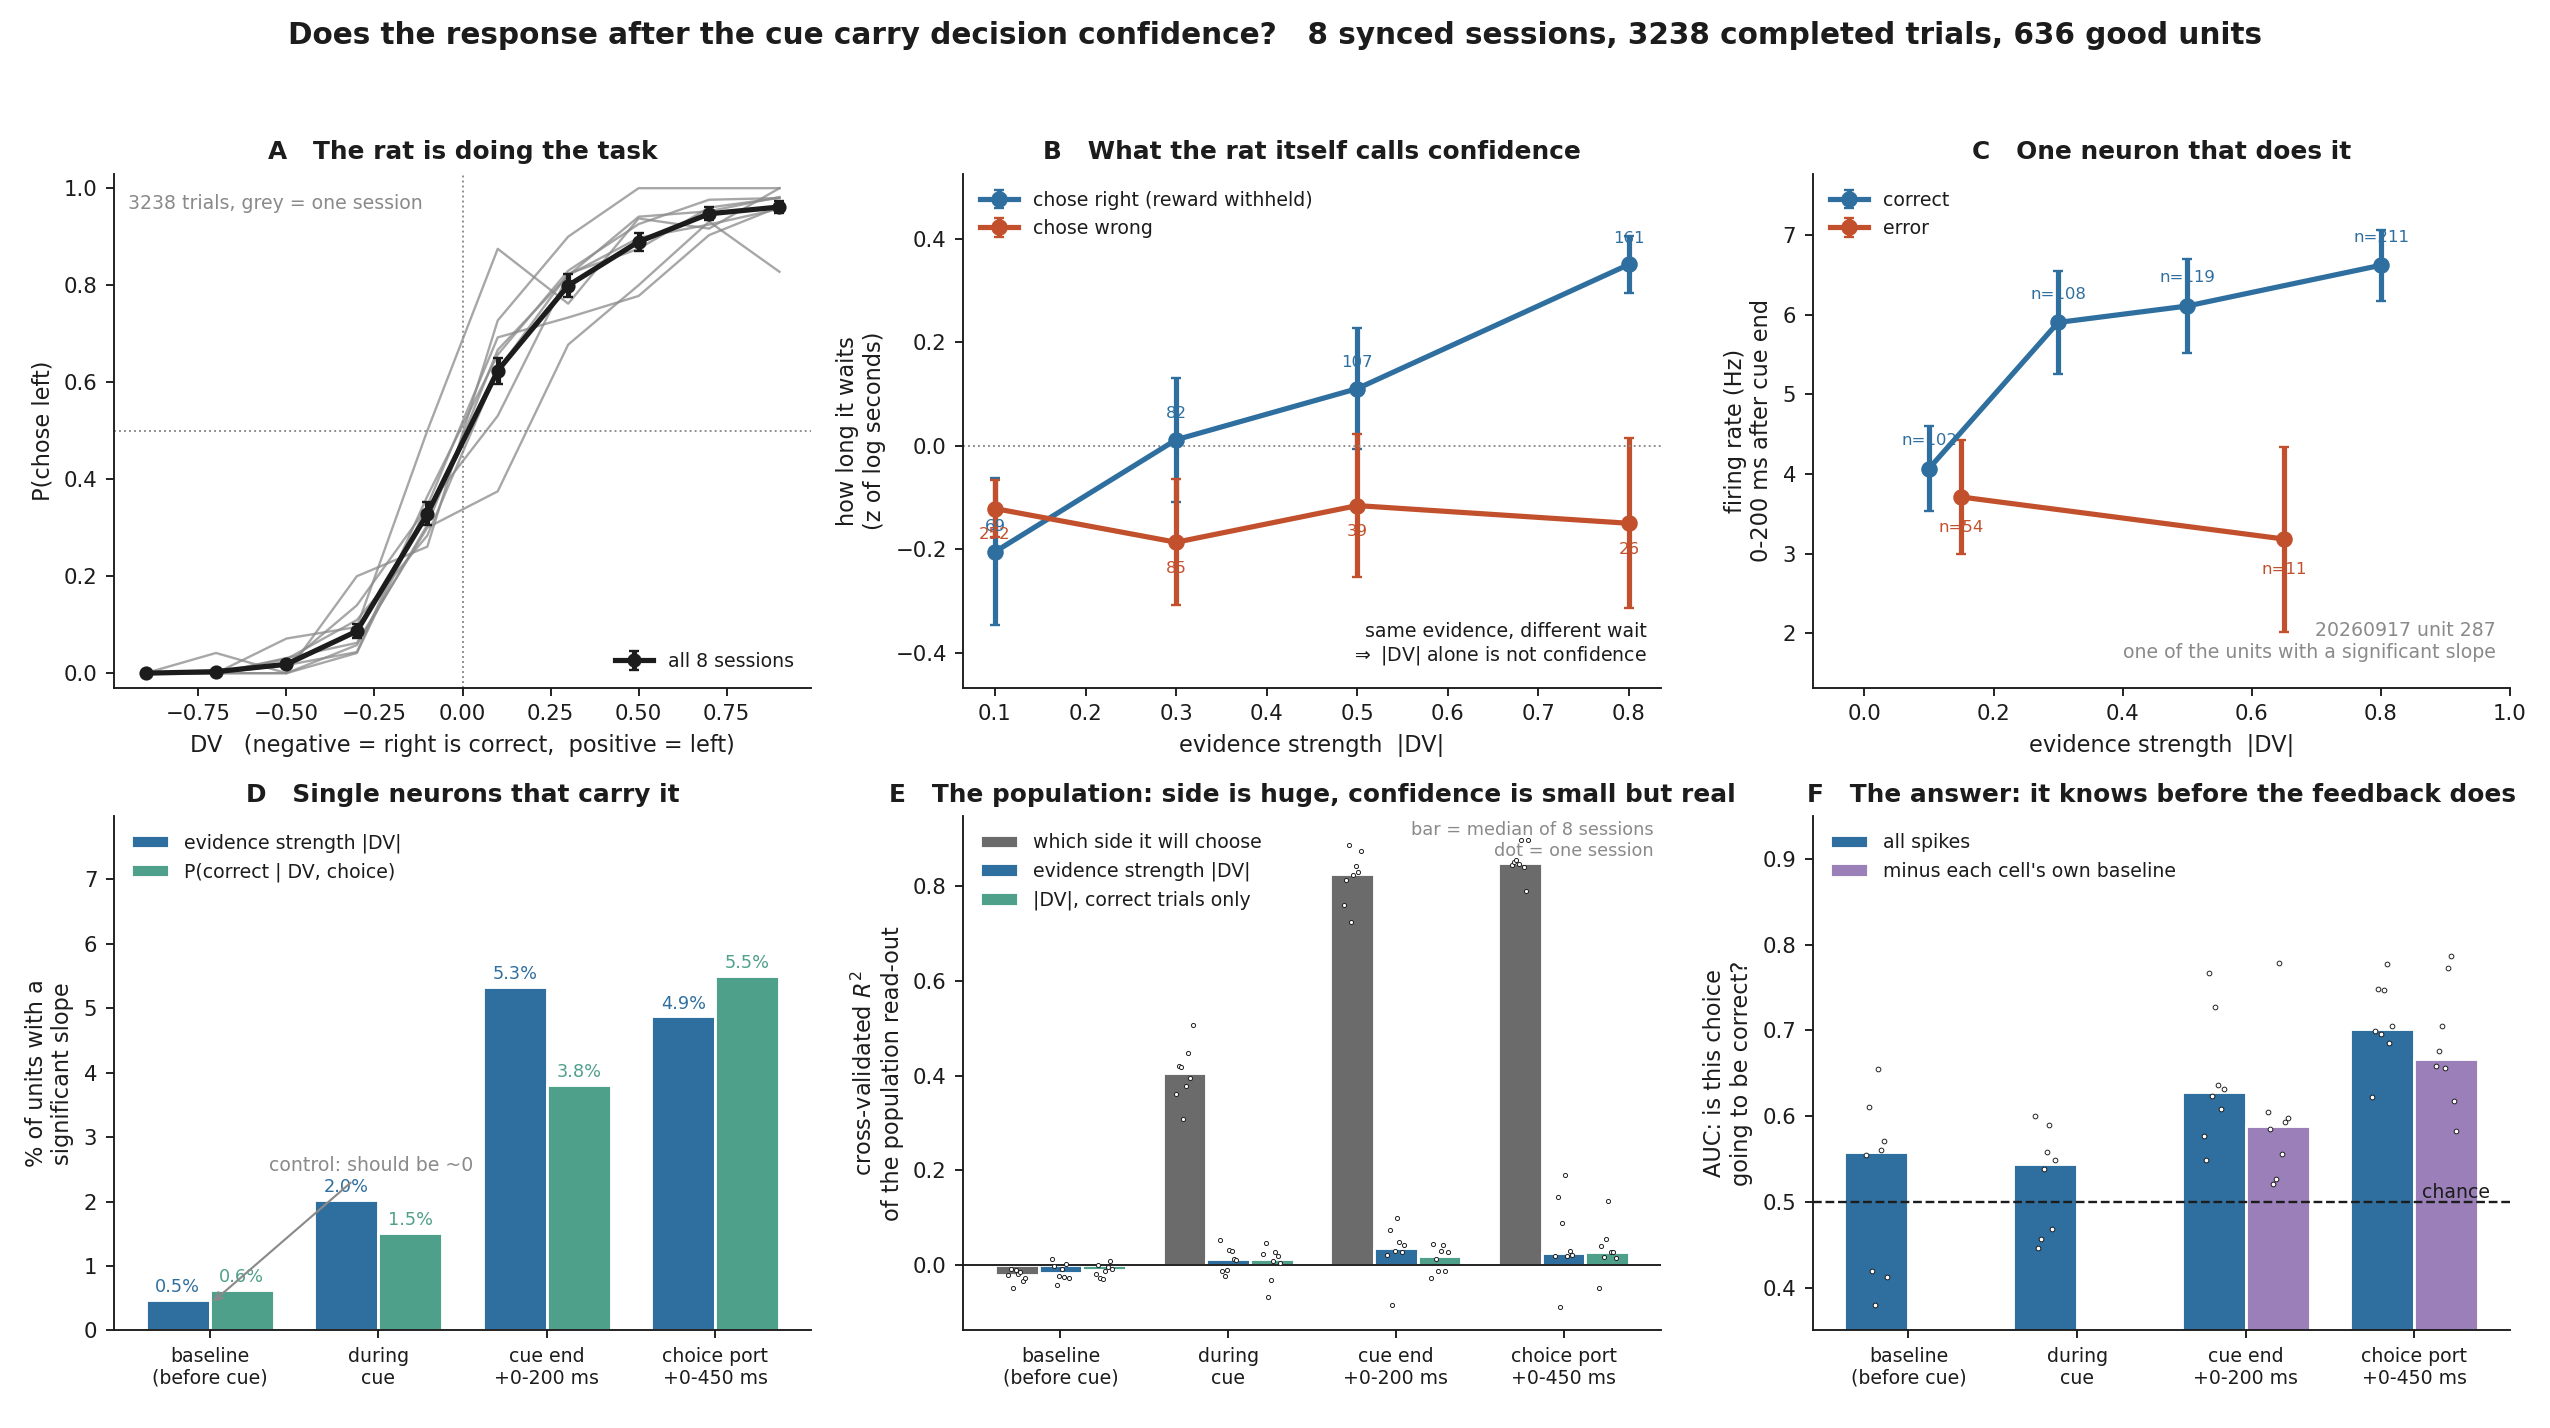
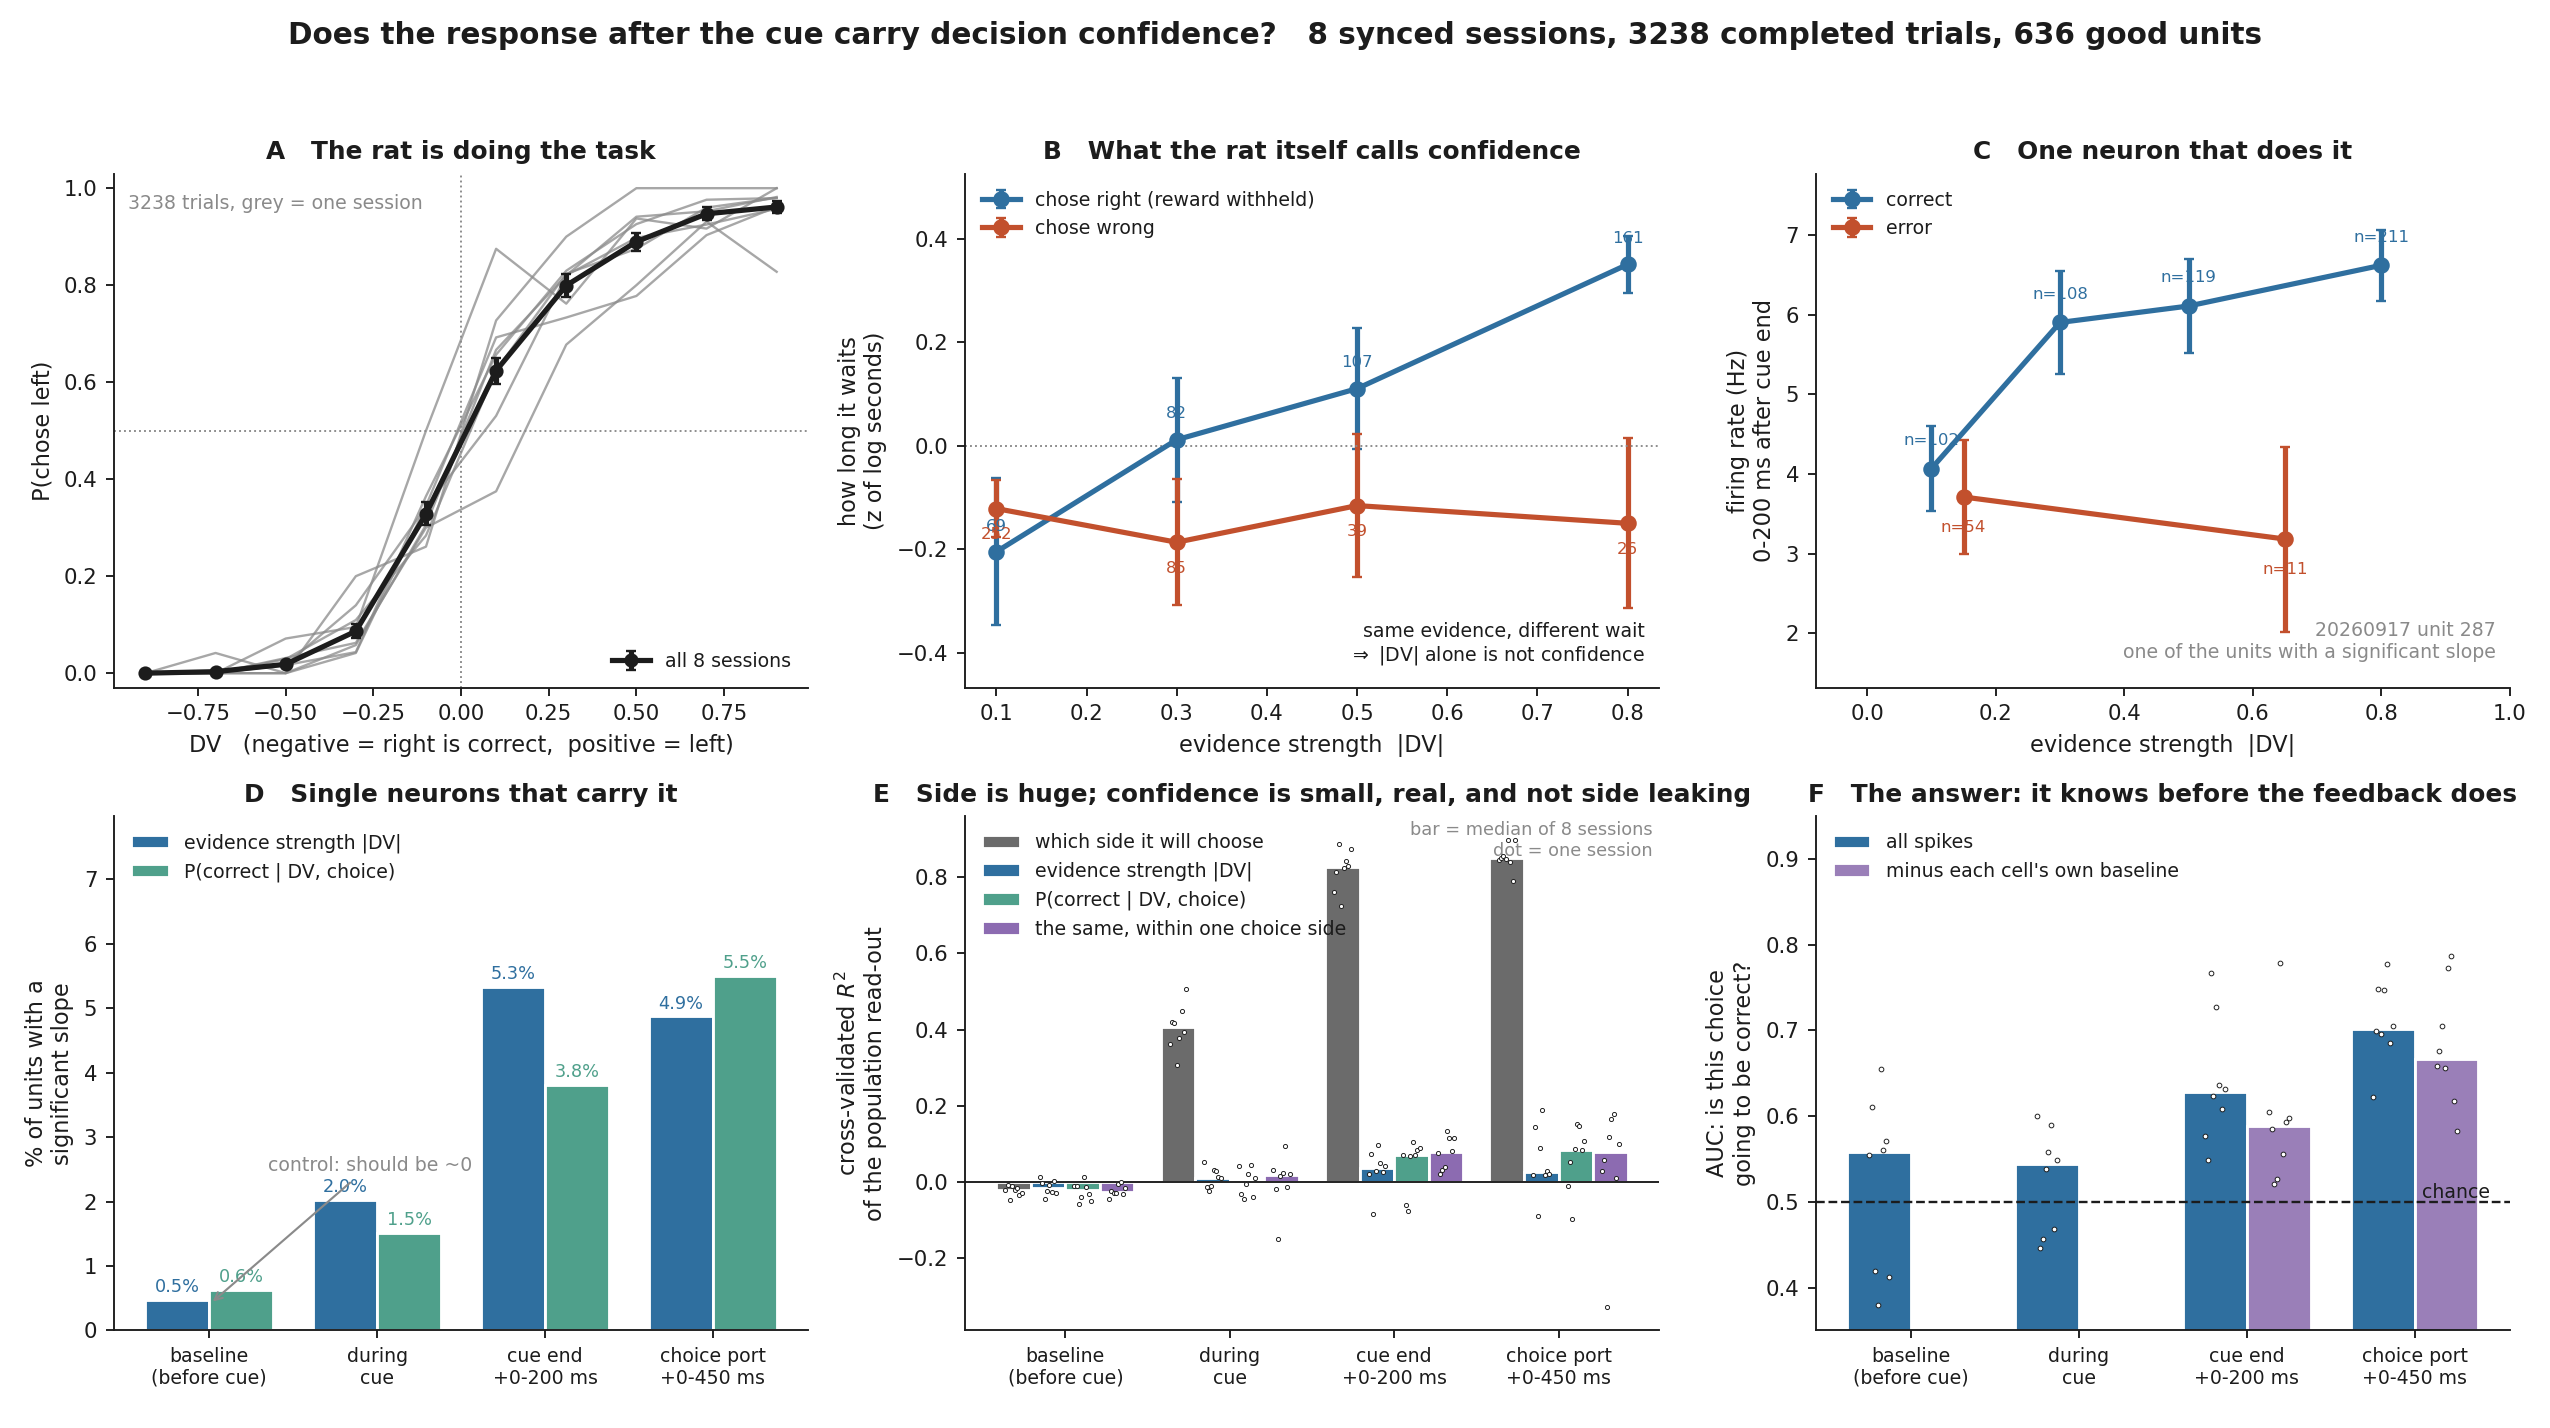
Hold the choice fixed, and ask panel E again
Gil, looking at the figure: how can you tell in panel E what codes the side
choice and what codes the confidence? The honest answer was that it couldn't.
Those bars are separate ridge decoders fitted independently on the same
population vector, one per target. They don't partition variance and they don't
sum to anything, so a small confidence read-out sitting beside a side read-out
at R2 0.85 from the same cells is precisely the shape a leak would take, and
the panel carried no control against it.

The design does give something: |DV| and conf_norm are unsigned, so a left
choice at DV +0.8 and a right choice at -0.8 are identical on both and a pure
side signal has nothing to predict with. Measured rather than asserted, over
the eight sessions, mean |r| between ChoiceLeft and |DV| is 0.045 -- orthogonal,
as the task intends -- and between ChoiceLeft and conf_norm 0.103, since side
bias makes P(correct) slightly side-dependent. One percent shared variance
bounds the leak at about 0.009 of apparent confidence R2 against an observed
0.08 to 0.11. A bound, still not a measurement.

The measurement is to decode confidence within one choice side at a time:
inside left-choice trials every trial went left, so there is no side variance
left to exploit. conf_norm_left_only and conf_norm_right_only now run in the
check, and panel E has a fourth bar for the per-session mean of the two.

It survives. At cue end 12 of 16 side-specific fits clear both nulls and 8 of 8
[…]

diff --git a/scripts/confidence_coding_figure.py b/scripts/confidence_coding_figure.py
@@ -67,6 +67,7 @@ C_ERROR = "#c2502d"        # wrong
 C_SIDE = "#6b6b6b"
 C_DV = "#2f6f9f"
 C_DVC = "#4fa08b"
+C_WITHIN = "#8c6bb1"      # confidence with the choice held fixed
 EPOCH_LABEL = {"base": "baseline\n(before cue)", "stim": "during\ncue",
                "cue": "cue end\n+0-200 ms", "chin": "choice port\n+0-450 ms",
                "wait": "waiting\n+0.5-1.5 s"}
@@ -240,16 +241,31 @@ def panel_d(ax, units):
 
 def panel_e(ax, dec):
     eps = ["base", "stim", "cue", "chin"]
+    # The fourth bar is the control the first three cannot supply: side is read out
+    # at R^2 ~ 0.85 and confidence at ~0.09 from the SAME cells by independently
+    # fitted decoders, so the question is whether the small one is the big one
+    # leaking. Holding the choice fixed settles it -- within left-choice trials
+    # there is no side variance left for a side signal to exploit.
     targets = [("side", C_SIDE, "which side it will choose"),
                ("absDV", C_DV, "evidence strength |DV|"),
-               ("absDV_correct_only", C_DVC, "|DV|, correct trials only")]
+               ("conf_norm", C_DVC, "P(correct | DV, choice)"),
+               ("conf_norm_within_side", C_WITHIN,
+                "the same, within one choice side")]
     xs = np.arange(len(eps))
-    w = 0.26
+    w = 0.21
     for i, (tg, col, lab) in enumerate(targets):
-        off = (i - 1) * w
+        off = (i - 1.5) * w
         med, pts = [], []
         for ep in eps:
-            v = dec[(dec.epoch == ep) & (dec.target == tg)].r2.values
+            if tg == "conf_norm_within_side":
+                # one value per session: the mean of its left-only and right-only
+                # read-outs, so a session counts once however its trials split
+                e = dec[(dec.epoch == ep)
+                        & dec.target.isin(["conf_norm_left_only",
+                                           "conf_norm_right_only"])]
+                v = e.groupby("session").r2.mean().values
+            else:
+                v = dec[(dec.epoch == ep) & (dec.target == tg)].r2.values
             med.append(np.median(v) if len(v) else np.nan)
             pts.append(v)
         ax.bar(xs + off, med, w, color=col, label=lab, edgecolor="white", linewidth=1.2)
@@ -261,7 +277,7 @@ def panel_e(ax, dec):
     ax.set_xticks(xs)
     ax.set_xticklabels([EPOCH_LABEL[e] for e in eps], fontsize=8)
     ax.set_ylabel("cross-validated $R^2$\nof the population read-out")
-    ax.set_title("E   The population: side is huge, confidence is small but real")
+    ax.set_title("E   Side is huge; confidence is small, real, and not side leaking")
     ax.legend(frameon=False, fontsize=8, loc="upper left")
     ax.text(0.99, 0.99, "bar = median of %d sessions\ndot = one session"
             % dec.session.nunique(),

diff --git a/scripts/confidence_coding_quick_check.py b/scripts/confidence_coding_quick_check.py
@@ -497,6 +497,19 @@ def analyse_session(sid, S, verbose=True):
         if corr.sum() >= MIN_TRIALS:
             dc = decode_epoch(R[corr], {"absDV_correct_only": t.absDV.values[vt][corr]})
             d.update(dc)
+        # Confidence read out WITHIN one choice side at a time. The side read-out in
+        # panel E is enormous (R^2 ~ 0.85) and the confidence one is small, and the
+        # two decoders are fitted independently on the same cells -- so the obvious
+        # worry is that the small one is the big one leaking. |DV| and conf_norm are
+        # unsigned and so side-independent by construction, but that is an argument,
+        # not a measurement. Holding the choice fixed is the measurement: within
+        # left-choice trials every trial has the same side, so nothing a side signal
+        # does can produce a confidence read-out here.
+        for lab, sel in (("left", t.ChoiceLeft.values[vt] > 0.5),
+                         ("right", t.ChoiceLeft.values[vt] < 0.5)):
+            if sel.sum() >= MIN_TRIALS:
+                d.update(decode_epoch(R[sel], {
+                    "conf_norm_%s_only" % lab: t.conf_norm.values[vt][sel]}))
         # The animal's own confidence report. Guarded: a window that runs past the
         # moment the rat gave up and left the port would be reading the withdrawal,
         # not the confidence that set it, and short waits are exactly the

diff --git a/post_ks_correction/RESEARCH_LOG.md b/post_ks_correction/RESEARCH_LOG.md
@@ -11327,3 +11327,60 @@ but the panel is weaker evidence in the three-session figure than in the eight.
 
 Figures: `outputs/confidence_coding_shamir_all/confidence_figure_shamir_all.png`
 and `outputs/confidence_coding_shamir_500/confidence_figure_shamir_500.png`.
+
+### 5bd.91 Is panel E's confidence just side leaking? Hold the choice fixed (2026-11-20)
+
+Gil, on the figure of 5bd.90: *"how can you tell in panel E what code the side
+choice and what code the confidence? how do you measure the coding for
+confidence?"*
+
+The honest answer was that panel E could not tell. Its bars are **separate ridge
+decoders fitted independently on the same population vector**, one per target --
+they do not partition variance, they do not sum to anything, and side being read
+out at R2 = 0.85 does not leave 0.15 for everything else. So a small confidence
+read-out beside an enormous side read-out from the same cells is exactly the shape
+a leak would take, and the panel contained no control against it.
+
+**What the design already gives.** `absDV` and `conf_norm` are unsigned: a left
+choice at DV = +0.8 and a right choice at DV = -0.8 take identical values, so a
+pure side signal has nothing to predict with. Measured rather than asserted, the
+per-session correlation between `ChoiceLeft` and each regressor:
+
+    mean |r| over the 8 sessions:   side vs |DV|  0.045     side vs conf_norm  0.103
+
+|DV| is orthogonal, as the task intends. `conf_norm` is not quite -- side bias makes
+P(correct) slightly side-dependent -- but 0.103 is ~1 % shared variance, so a side
+read-out at 0.85 could manufacture at most ~0.009 of apparent confidence R2 against
+an observed 0.08-0.11. **Leakage could account for about a tenth of it.** An argument,
+and a bound, but still not a measurement.
+
+**The measurement: decode confidence within one choice side at a time.** Inside
+left-choice trials every trial has the same side, so there is no side variance left
+for a side signal to exploit. Added to the check as `conf_norm_left_only` and
+`conf_norm_right_only`, and to panel E as a fourth bar (the per-session mean of the
+two, so a session counts once however its trials split).
+
+    epoch   side     conf_norm   confidence WITHIN side
+    base   -0.021     -0.023      -0.026
+    stim    0.406      0.002       0.018
+    cue     0.827      0.071       0.078
+    chin    0.850      0.085       0.079
+
+**It survives, and it does not shrink.** At cue end 12 of 16 side-specific fits
+clear both nulls and **8 of 8 sessions are significant on at least one side**; at the
+choice port 12 of 16 and 7 of 8, the only failure being 20260915_103710, the 172-trial
+half. Baseline stays at zero.
+
+The result is slightly better than survival: the within-side read-out is **the same
+size or larger** than the pooled one -- 0.078 vs 0.071 at cue end -- and in individual
+sessions much larger (20260916 at the port, 0.223 within left against 0.087 pooled;
+20260917, 0.214 against 0.153). That is the opposite of what a leak predicts. Removing
+side variance removes noise from the confidence decoder rather than removing its
+signal.
+
+**What was always controlled, and what was not.** Panel D's per-unit counts were never
+exposed to this -- every unit is fitted with choice side, movement time and trial index
+in the model, so the reported slope is partial on the confidence term with side already
+regressed out. Panel F is immune by construction: the rat goes left on correct-left and
+error-left alike, so side cannot predict correct-vs-error. It was panel E alone that
+lacked the control, and it has it now.
